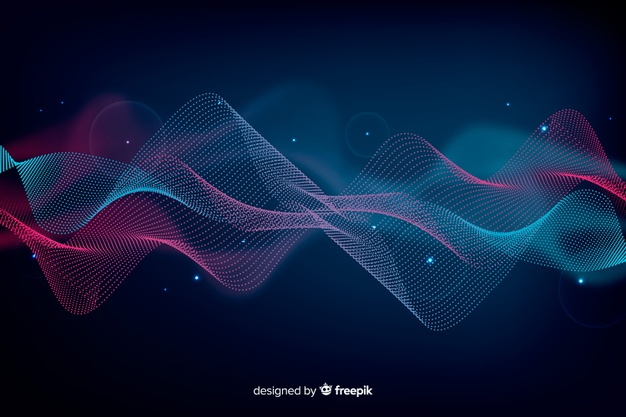
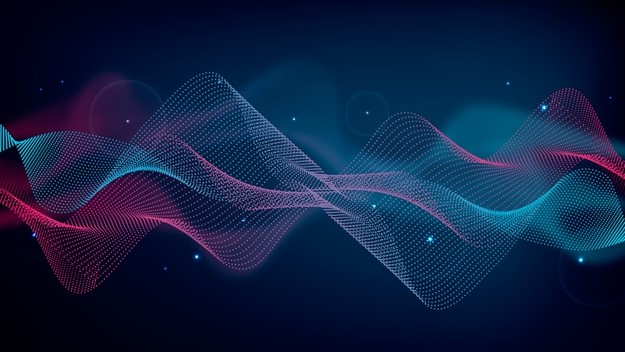
scanner page final update

diff --git a/src/components/scan.js b/src/components/scan.js
@@ -1,7 +1,7 @@
 import React, {useState} from 'react';
-import {View, Text, Image, TouchableOpacity, ScrollView} from 'react-native';
+import {View, Text, Image, TouchableOpacity,Pressable, ScrollView} from 'react-native';
 import {CheckBox} from 'react-native-elements';
-import Icon from 'react-native-vector-icons/FontAwesome';
+import FontAwesome from 'react-native-vector-icons/FontAwesome';
 import AntDesign from 'react-native-vector-icons/AntDesign';
 const Scan = ({navigation}) => {
   const [checkboxValue, setcheckboxValue] = useState(false);
@@ -12,102 +12,150 @@ const Scan = ({navigation}) => {
     <>
        <Image
         style={{height: '100%', width: '100%', position:"absolute"}}
-        source={require('../assets/bg5.jpg')}
+        source={require('../assets/themes/six.jpg')}
       />
       <View
         style={{
-          backgroundColor: 'skyblue',
+          backgroundColor: '#376f8aaa',
           height: '100%',
           flexDirection: 'column',
-          opacity:.7
+          
         }}>
-        <View style={{backgroundColor: '#0890B6', height: '6%'}}>
+            <View
+          style={{
+            height: '8%',
+            flexDirection: 'row',
+            flexWrap: 'wrap',
+            alignContent: 'center',
+            justifyContent: 'space-around',
+            alignItems: 'center',
+            backgroundColor: '#376f8aef',
+          }}>
           <AntDesign
             name="arrowleft"
-            size={20}
-            style={{left: '2%', top: "23%", color: '#fff'}}
+            size={25}
+            color="#fff"
+            style={{width: '10%'}}
             onPress={() => navigation.goBack()}
           />
           <Text
             style={{
-              left: '15%',
-              bottom: "25.5%",
-              fontSize: 16,
-              fontWeight: 'bold',
               color: '#fff',
+              fontFamily: 'italic',
+              fontWeight: 'bold',
+              fontSize: 20,
+              marginTop: '1%',
             }}>
-            Scan Libraries
+         Scan Library
           </Text>
-          <Icon
+          <View
+            style={{
+              height: '100%',
+              width: '20%',
+              flexDirection: 'row',
+              flexWrap: 'wrap',
+              alignContent: 'center',
+              justifyContent: 'flex-end',
+              
+            }}>
+
+            <View
+              style={{
+                height: '100%',
+                width: '100%',
+                flexDirection: 'row',
+                flexWrap: 'wrap',
+                alignItems: 'center',
+                alignContent: 'center',
+                justifyContent: 'flex-end',
+              }}>
+              
+            <Pressable  onPress={() => navigation.navigate('Library')}>
+              <FontAwesome
             name="folder-open"
-            size={20}
-            style={{left: '92%', bottom: "69%", color: '#fff'}}
-            onPress={() => navigation.navigate('Library')}
-          />
+              size={25}
+              style={{
+                color: '#fff',
+               
+              }}
+             
+            />
+          </Pressable>
+            </View>
+            </View>  
         </View>
+
+ 
         <Image
-          source={require('../assets/loading-34.gif')}
-          style={{left: '19.5%', height: '25%', width: '60%', top: 100}}
+          source={require('../assets/Scanner3.gif')}
+          style={{height:"40%", width:"70%",alignSelf:"center"}}
         />
-        <Text style={{left: '23%', top: '17%', fontSize: 15}}>
+        
+        <View style={{height:"60%",alignItems:'center',paddingTop:"5%",}}>
+        <Text style={{ fontSize: 16,color:"#fff", alignSelf:"center",}}>
           Tracks:10 Albums:33 Artists:20
         </Text>
+        <View style={{width:"100%",flexDirection:"row",paddingLeft:"10%", alignItems:"center",marginTop:"5%",}}>
         <CheckBox
           containerStyle={{
-            marginLeft: 0,
-            width: '100%',
-            left: '10%',
-            top: '27%',
+            width: '10%',
           }}
           checked={checkboxValue}
           onPress={() => setcheckboxValue(!checkboxValue)}
+          checkedColor='#F8E910'
         />
-        <Text style={{left: '24%', top: '22%'}}>
+        <Text style={{color:"#fff",alignItems:'center',justifyContent:"center", }}>
           Exclude songs less than{' '}
-          <Text style={{textDecorationLine: 'underline'}}>60</Text> seconds.
+          <Text style={{textDecorationLine: 'underline', color:"#fff"}}>60</Text> seconds.
         </Text>
+
+        </View>
+        <View style={{paddingLeft:"10%",width:"100%",flexDirection:"row",alignItems:"center"}}>
         <CheckBox
           containerStyle={{
-            marginLeft: 0,
-            width: '100%',
-            left: '10%',
-            top: '21.9%',
+            width: '10%',
           }}
           checked={newValue}
           onPress={() => setNewValue(!newValue)}
+          checkedColor='#F8E910'
         />
-        <Text style={{left: '24%', top: '17%'}}>
+         <Text style={{color:"#fff",alignItems:'center',justifyContent:"center", }}>
           Exclude songs less than{' '}
-          <Text style={{textDecorationLine: 'underline'}}>50Kb</Text>
+          <Text style={{color:"#fff",textDecorationLine:'underline'}}>50Kb</Text>
         </Text>
+
+        </View>
+
+        <View style={{paddingLeft:"10%",width:"100%",flexDirection:"row",alignItems:"center"}}>
         <CheckBox
           containerStyle={{
-            marginLeft: 0,
-            width: '100%',
-            left: '10%',
-            top: '16.8%',
+            width: '10%',
+         
           }}
           checked={value}
           onPress={() => setValue(!value)}
+          checkedColor='#F8E910'
         />
-        <Text style={{left: '24%', top: '12%'}}>Exclude Ringtone</Text>
+       <Text style={{color:"#fff",alignItems:'center',justifyContent:"center",}}>
+         Exclude Ringtone
+         </Text>
+
+       </View>
         <TouchableOpacity
           style={{
             borderWidth: 2,
             borderColor: '#f4ce5e',
             width: '78%',
-            top: '20%',
-            marginLeft: '12%',
-           // paddingLeft: '10%',
             borderRadius: 10,
-            height: '7%',
-            //paddingTop: '3.5%',
+            height: 50,
             justifyContent:"center",
             alignItems:"center",
+            marginTop:"10%",
           }}
           onPress={() => navigation.navigate('Library')}>
-          <Text style={{fontWeight:"bold"}}>Start scan</Text>
+          <Text style={{fontWeight:"bold",color:"#fff"}}>Start scan</Text>
         </TouchableOpacity>
+      </View>
       </View>
     </>
   );

diff --git a/src/components/hidden.js b/src/components/hidden.js
@@ -75,12 +75,17 @@ const Hidden = ({navigation}) => {
               name="check"
               size={25}
               style={{color: '#fff',}}
-              onPress={() =>
-                ToastAndroid.show(
+              onPress={() => {(checkboxValue2||checkboxValue1)?
+                (ToastAndroid.show(
+                  'Sucessfully Hidden',
+                  ToastAndroid.SHORT,
+                )) 
+                :
+                (ToastAndroid.show(
                   'Please select a folder to hide!!',
                   ToastAndroid.SHORT,
-                )
-              }
+                )) 
+              }}
             />
             </View>
 
